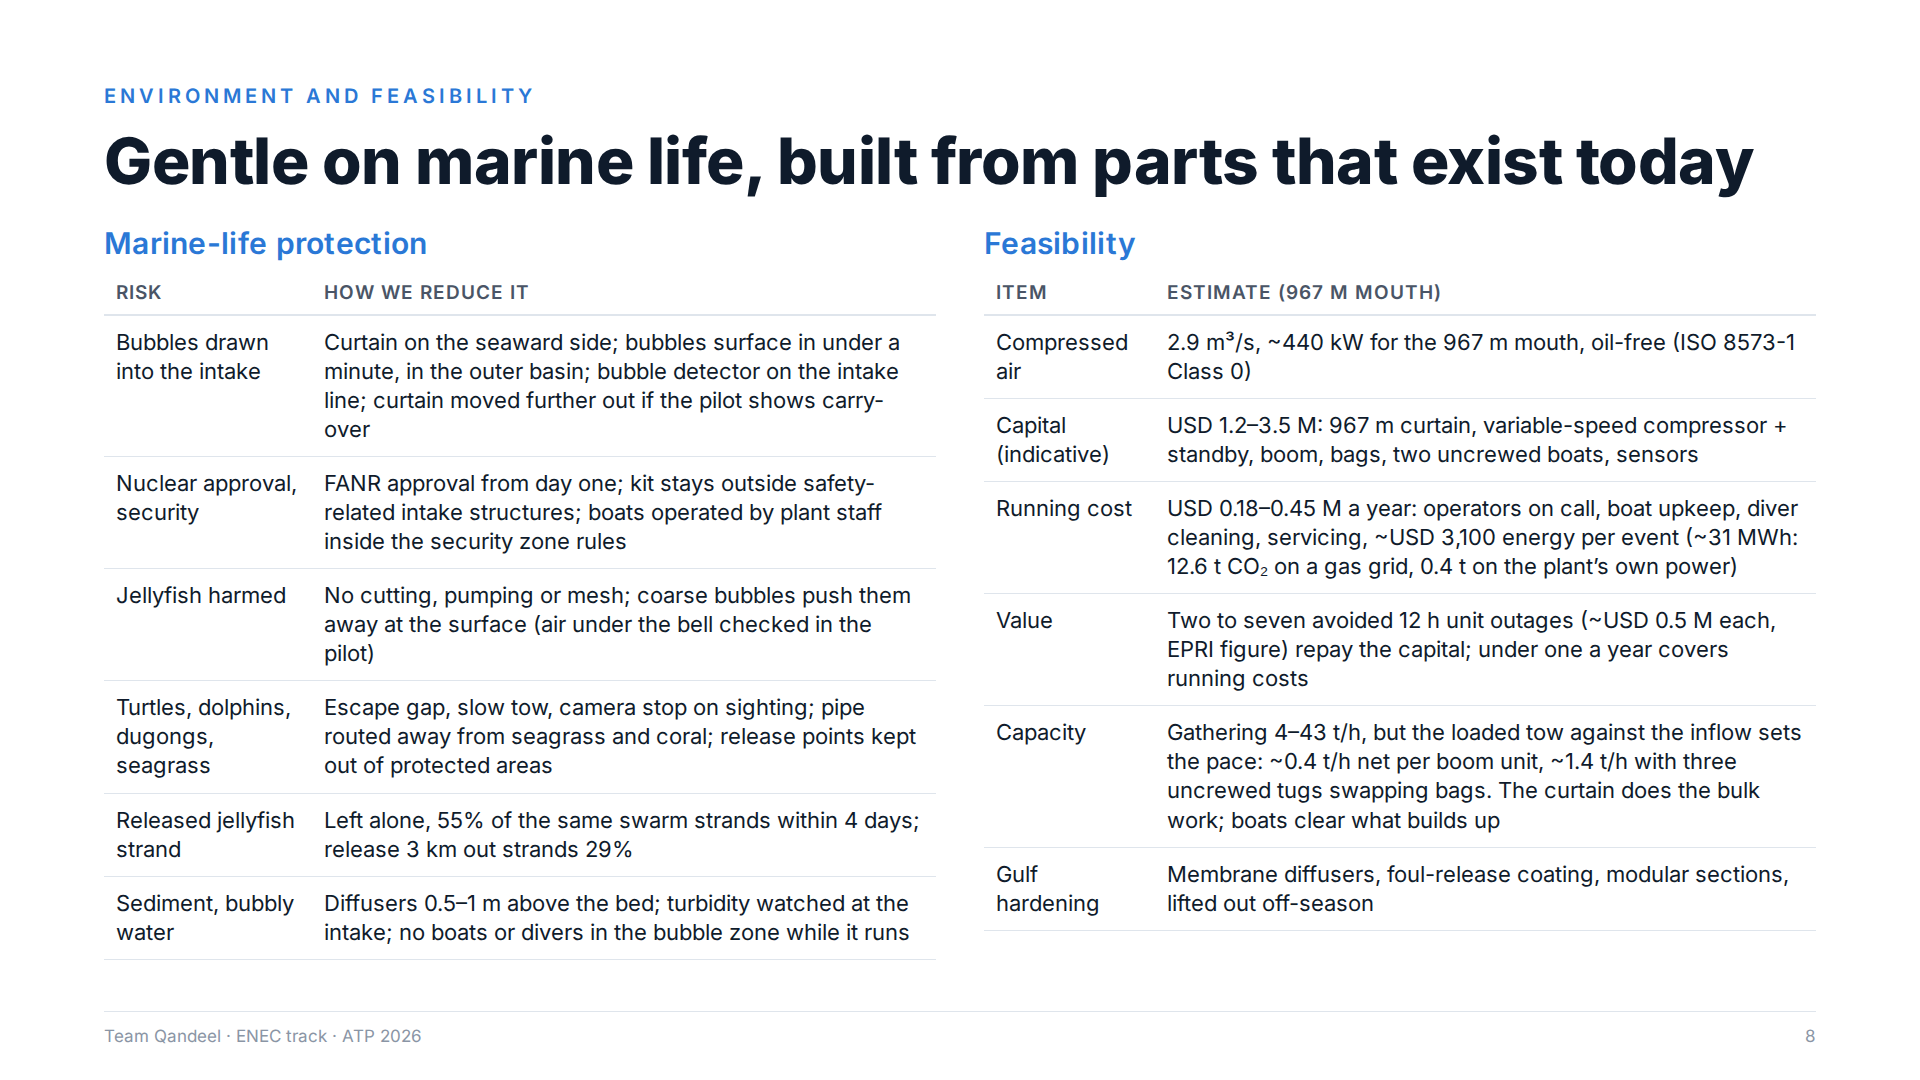
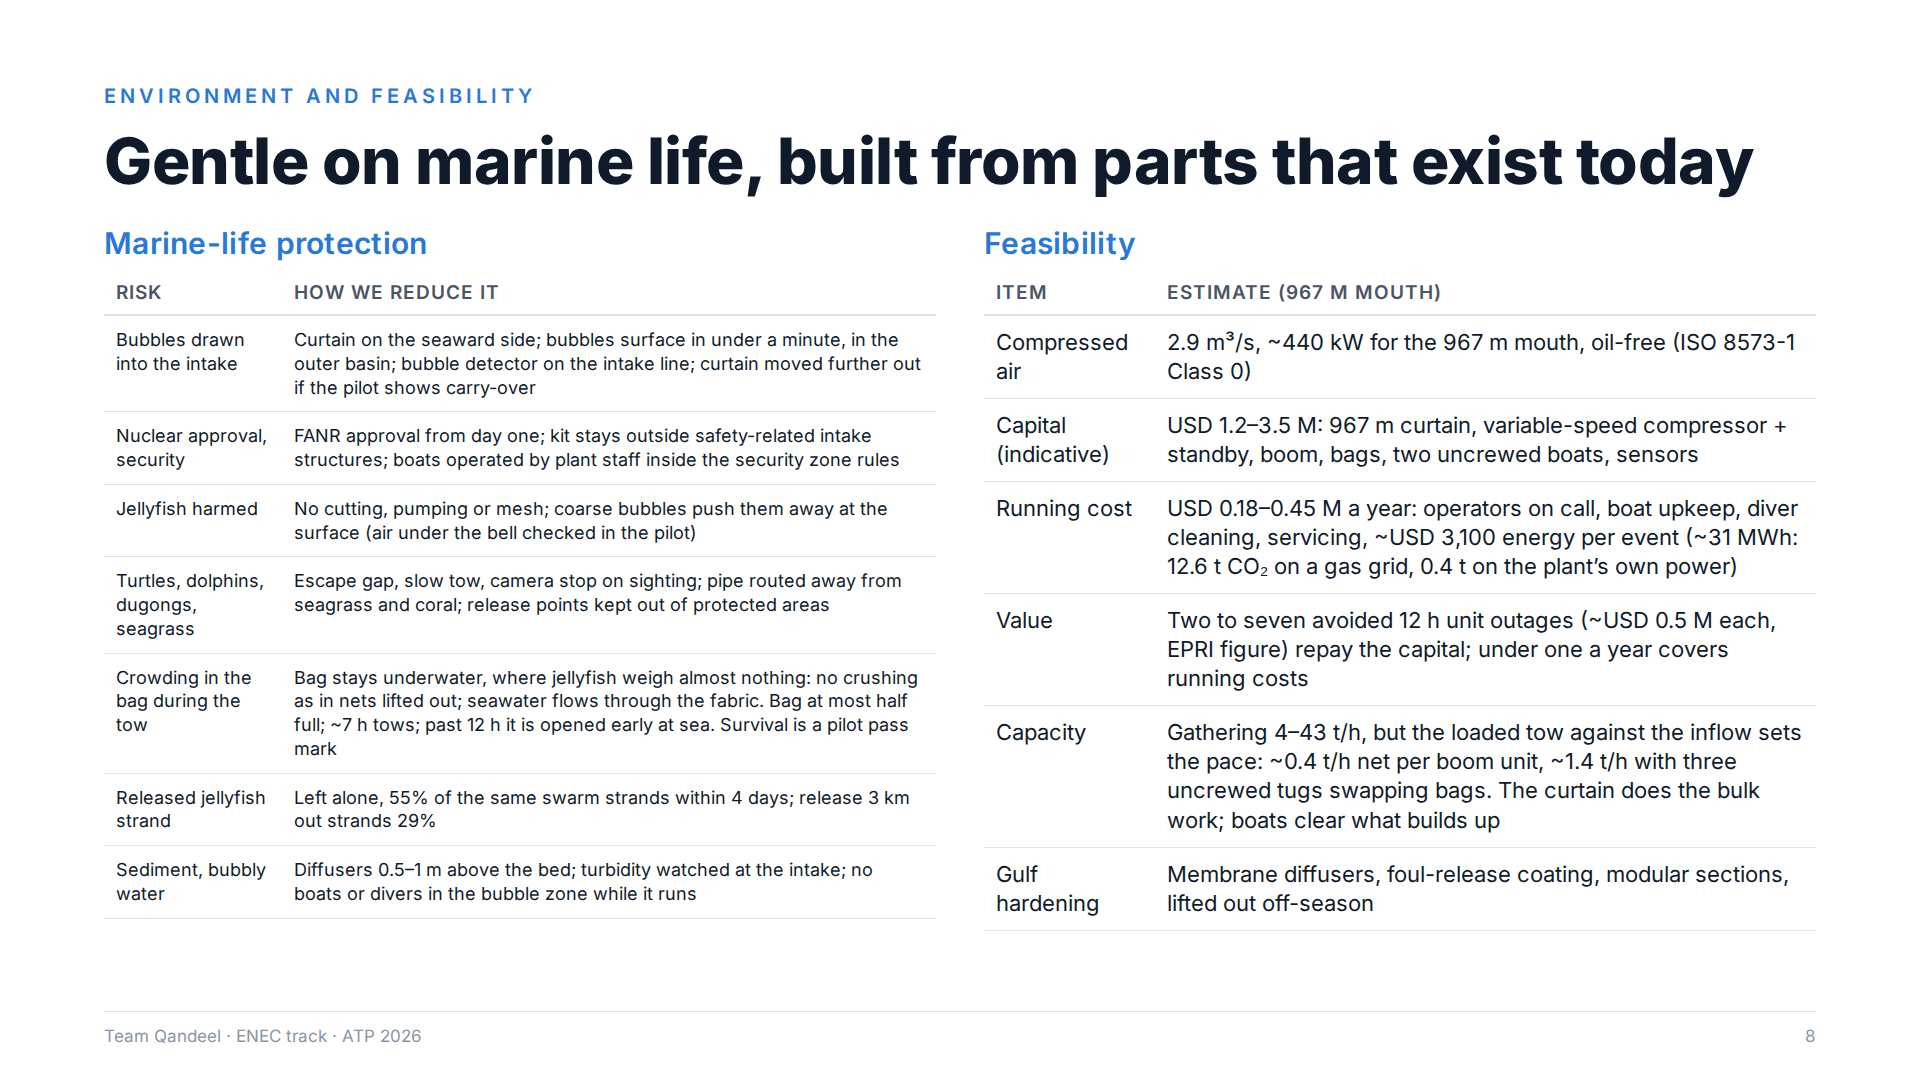
Cover jellyfish survival in the bag during the tow (risk row, pass mark, README)

Changed region(s): [[0.0625, 0.3056, 0.4688, 0.8861], [0.1562, 0.2444, 0.2812, 0.275]]

diff --git a/deck/deck.html b/deck/deck.html
@@ -241,12 +241,13 @@
   <div class="cols c2" style="margin-top:30px; gap:48px">
     <div>
       <h2>Marine-life protection</h2>
-      <table>
+      <table style="font-size:18px">
         <tr><th>Risk</th><th>How we reduce it</th></tr>
 <tr><td>Bubbles drawn into the intake</td><td>Curtain on the seaward side; bubbles surface in under a minute, in the outer basin; bubble detector on the intake line; curtain moved further out if the pilot shows carry-over</td></tr>
 <tr><td>Nuclear approval, security</td><td>FANR approval from day one; kit stays outside safety-related intake structures; boats operated by plant staff inside the security zone rules</td></tr>
 <tr><td>Jellyfish harmed</td><td>No cutting, pumping or mesh; coarse bubbles push them away at the surface (air under the bell checked in the pilot)</td></tr>
 <tr><td>Turtles, dolphins, dugongs, seagrass</td><td>Escape gap, slow tow, camera stop on sighting; pipe routed away from seagrass and coral; release points kept out of protected areas</td></tr>
+<tr><td>Crowding in the bag during the tow</td><td>Bag stays underwater, where jellyfish weigh almost nothing: no crushing as in nets lifted out; seawater flows through the fabric. Bag at most half full; ~7 h tows; past 12 h it is opened early at sea. Survival is a pilot pass mark</td></tr>
 <tr><td>Released jellyfish strand</td><td>Left alone, 55% of the same swarm strands within 4 days; release 3 km out strands 29%</td></tr>
 <tr><td>Sediment, bubbly water</td><td>Diffusers 0.5–1 m above the bed; turbidity watched at the intake; no boats or divers in the bubble zone while it runs</td></tr>
 </table>
@@ -306,7 +307,7 @@
   </div>
   <div class="cols c2" style="margin-top:18px; gap:48px">
     <div><h2>Pass marks</h2>
-      <ul style="font-size:21px; margin:0"><li>Pilot: ≥95% of jellyfish held at the curtain section at the measured current</li><li>Pilot: bag keeps ≥90% at 0.2 m/s; jellyfish alive after release</li><li>No harm to non-target species; fewer screen-clearing hours</li></ul></div>
+      <ul style="font-size:21px; margin:0"><li>Pilot: ≥95% of jellyfish held at the curtain section at the measured current</li><li>Pilot: bag keeps ≥90% at 0.2 m/s; ≥90% still alive 24 h after release</li><li>No harm to non-target species; fewer screen-clearing hours</li></ul></div>
     <div><h2>Open work and AI use</h2>
       <p style="font-size:19px; color:var(--ink2); margin:0">Live dashboard: enechackathon.streamlit.app. Code, data and tests: github.com/Shaaha-7/ENEC. AI assistants helped search and summarise literature, check claims, draft text and write simulation code, and an open text-to-speech model voices the video; the team reviewed every decision, assumption and figure, and can explain each in our own words.</p></div>
   </div>

diff --git a/README.md b/README.md
@@ -100,6 +100,7 @@ The curtain is sized for the 3% case.
 - *Bubbles sucked into the cooling pumps:* the curtain is on the seaward side; bubbles surface in under a minute, in the outer basin; a bubble detector watches the intake line; the curtain moves further out if the pilot shows carry-over.
 - *Approvals:* **FANR** for any change at the intake, **EAD** for marine works and moving live animals, Coast Guard and plant security for boats. Kit stays outside safety-related intake structures.
 - *Sediment and bubbly water:* diffusers sit 0.5–1 m above the bed; turbidity is watched at the intake; no boats or divers in the bubble zone while it runs (bubbly water gives less buoyancy).
+- *Jellyfish crowded in the bag during a long tow:* the bag stays underwater, where jellyfish are nearly weightless, so they are not crushed the way they are in a net lifted out of the water, and seawater flows through the fabric. The bag is filled at most halfway, the base-case tow is ~7 h, and if a tow runs past 12 h the bag is opened early at sea (any returners meet the curtain again). Survival 24 h after release is a pilot pass mark; if it is low, a full bag goes to a licensed processor instead.
 - *Air trapped under a bell:* coarse bubbles push jellyfish away at the surface rather than through the plume; checked in the sea pilot.
 - *Wildlife:* turtles, dolphins and dugongs (escape gap, slow tow, camera stop on sighting); seagrass and protected areas kept clear of the pipe and the release points.
 
